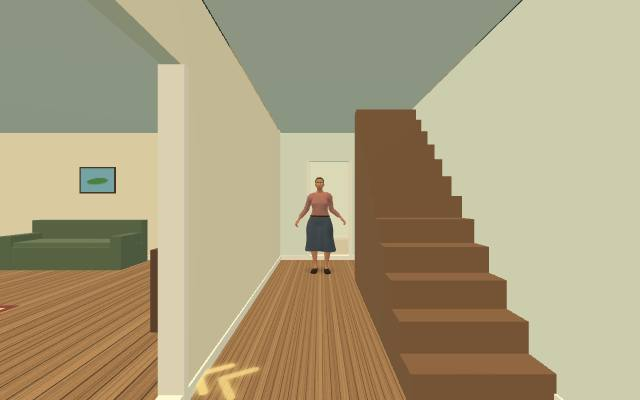
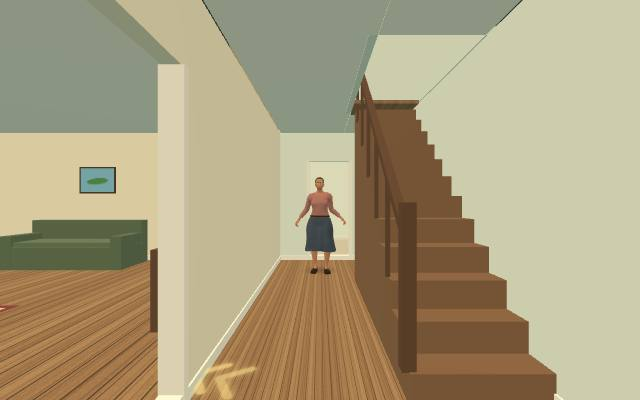
Windrush: the stairs lead up through an opening, with a banister and handrail
Claude-Session: https://claude.ai/code/session_0132LeDyUgGto7XtjpcQJKSx

diff --git a/games/windrush/src/places.js b/games/windrush/src/places.js
@@ -765,7 +765,7 @@ function home18() {
     { line: [-5.6, -6, 1.4, -6], gaps: [] }, { line: [1.4, -6, 1.4, 2.0], gaps: [{ at: 5.3, w: 1.18, kind: "door" }] },
     { line: [-5.6, 1.93, -5.6, -6] }, { line: [1.4, 1.93, -5.6, 1.93], gaps: [{ at: 4.8, w: 2.8, h: 1.7, sill: 0.75, kind: "window" }] }] });
   fabric(Q, rm);
-  const hall = S.room({ x0: 1.4, z0: -6, x1: 3.8, z1: 2.0, h: 2.7, floor: fl, wall: solid(0xd8e0d4, 1), walls: [
+  const hall = S.room({ x0: 1.4, z0: -6, x1: 3.8, z1: 2.0, h: 2.7, ceiling: false, floor: fl, wall: solid(0xd8e0d4, 1), walls: [
     { line: [3.8, -6, 3.8, 2.0] }, { line: [1.4, -6, 3.8, -6], gaps: [{ at: 1.1, w: 0.9, kind: "door" }] }, { line: [3.8, 1.93, 1.4, 1.93], gaps: [{ at: 1.3, w: 1.0, kind: "door" }] }] });
   fabric(Q, hall);
   const kit = S.room({ x0: -5.6, z0: -9.4, x1: 3.8, z1: -6, h: 2.7, floor: solid(0xb8b2a2, 0.8), wall: solid(0xe8ecdf, 1), walls: [{ line: [-5.6, -9.4, 3.8, -9.4] }, { line: [3.8, -6, 3.8, -9.4] }] });
@@ -778,7 +778,21 @@ function home18() {
   Q.walls.push([-5.8, -9.6, 4.0, -9.4], [-5.8, -9.6, -5.6, 2.2], [3.8, -9.6, 4.0, 2.2]);
   const stairs = grp();
   for (let i = 0; i < 12; i++) box(0.9, 0.22 * (i + 1), 0.25, solid(0x7a5a3e, 0.8), 0, (0.22 * (i + 1)) / 2, -i * 0.25, stairs);
+  /* the banister (owner, 22 November 2026: "rails for the steps"): a newel post, spindles and a handrail along the open side, rising with the steps */
+  const wood = solid(0x5a3e2a, 0.7), rise = 0.22 * 11, run = 0.25 * 11, railLen = Math.hypot(rise, run);
+  box(0.09, 1.05, 0.09, wood, -0.45, 0.22 + 0.52, 0.06, stairs);
+  for (let i = 0; i < 12; i += 2) box(0.035, 0.86, 0.035, wood, -0.45, 0.22 * (i + 1) + 0.43, -i * 0.25, stairs);
+  const rail = box(0.07, 0.06, railLen + 0.2, wood, -0.45, 0.22 + 0.88 + rise / 2, -run / 2, stairs); rail.rotation.x = Math.atan2(rise, run);
   add(Q, stairs, 3.3, -1.4);
+  /* the stairs lead up through an opening in the hall ceiling (owner, 22 November 2026), into a short stairwell to the floor above */
+  const ceil = solid(0xeeeae0, 1), well = solid(0xd8e0d4, 1), hx0 = 2.8, hx1 = 3.73, hz0 = -4.45, hz1 = -2.05;
+  box(hx0 - 1.47, 0.1, 7.86, ceil, (1.47 + hx0) / 2, 2.75, -2.0, Q.group);   /* the hall ceiling, west of the opening */
+  box(hx1 - hx0, 0.1, hz0 + 5.93, ceil, (hx0 + hx1) / 2, 2.75, (-5.93 + hz0) / 2, Q.group);   /* north of it */
+  box(hx1 - hx0, 0.1, 1.93 - hz1, ceil, (hx0 + hx1) / 2, 2.75, (hz1 + 1.93) / 2, Q.group);   /* south of it */
+  box(0.08, 2.6, hz1 - hz0, well, hx0 - 0.04, 4.0, (hz0 + hz1) / 2, Q.group); box(0.08, 2.6, hz1 - hz0, well, hx1 + 0.04, 4.0, (hz0 + hz1) / 2, Q.group);   /* the stairwell's sides */
+  box(hx1 - hx0, 2.6, 0.08, well, (hx0 + hx1) / 2, 4.0, hz1 + 0.04, Q.group); box(hx1 - hx0, 2.6, 0.08, well, (hx0 + hx1) / 2, 4.0, hz0 - 0.04, Q.group);
+  box(hx1 - hx0, 0.08, hz1 - hz0, ceil, (hx0 + hx1) / 2, 5.3, (hz0 + hz1) / 2, Q.group);   /* the upstairs ceiling */
+  box(hx1 - hx0, 0.05, 0.6, fl, (hx0 + hx1) / 2, 2.7, hz0 + 0.3, Q.group);   /* the landing at the top step */
   wall(Q, 3.3, -2.8, 1.0, 3.2);
   // the front room's things
   const rugM = S.rug(2.6, 1.8, "#7a3a3a", "#d8c08a");

diff --git a/docs/plans/story_first_plan.md b/docs/plans/story_first_plan.md
@@ -244,7 +244,7 @@ Done in PR #147: Phase 0; from Phase 1 the goal flag and banner, the smaller Jou
 
 Next, in this order:
 
-- [ ] **Windrush stairs (owner, 22 November 2026).** In the 2018 house (`home18`, the "scandal" recap picture) the stairs run into the ceiling. Cut an opening in the ceiling above them so they lead up, and add a handrail and banister. Then retake `games/windrush/site/recap/scandal.jpg`.
+- [x] **Windrush stairs (owner, 22 November 2026).** Done: an opening in the hall ceiling, a stairwell, a newel post, spindles and a handrail; picture retaken. Audit not yet confirmed. In the 2018 house (`home18`, the "scandal" recap picture) the stairs run into the ceiling. Cut an opening in the ceiling above them so they lead up, and add a handrail and banister. Then retake `games/windrush/site/recap/scandal.jpg`.
 - [ ] **Recap pictures to improve.** Tivoli `today.jpg` should show the murals (three angles from the chapter start missed them); The Emperor's Arrival `airport.jpg` is an almost empty apron. The capture script started each chapter from the Chapters book (Unlock All), hid the HUD and took a 640x400 JPEG at quality 72.
 - [ ] **Autoplayers still to confirm** after the quiz changes: Melissa (`?auto=1`; its runner clicked Exit on the last card), Bog Walk (`?auto=all`), Port Royal (needs a dev build; restore the public `app.js` afterwards). Confirmed `ALLDONE`: Nanny Town, Eventide, Garvey, Kendal, Tivoli.
 - [ ] **"Who you are"** for The Emperor's Arrival and Tivoli (Tivoli has no "you" page yet; read `docs/games/tivoli.md` first).
